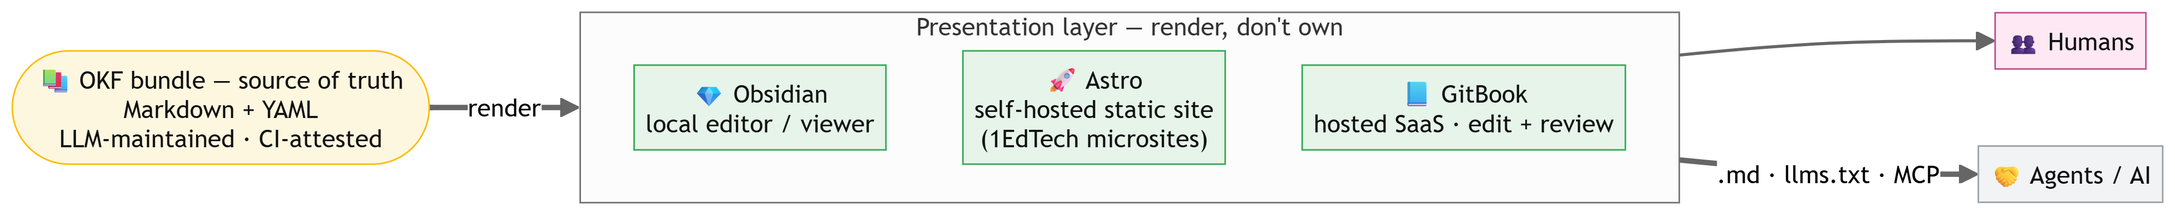
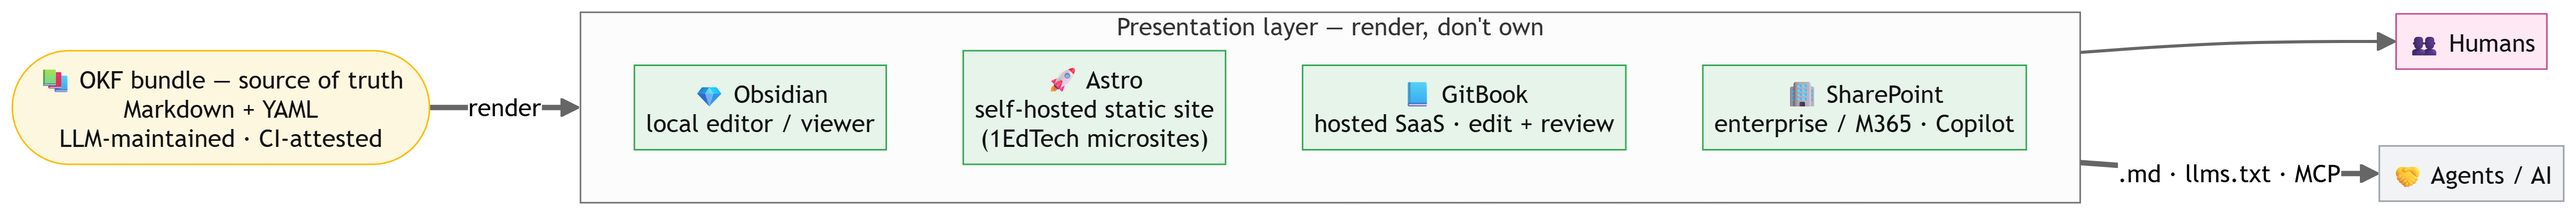
Overview: add setup + provider-independence sections; SharePoint in spectrum diagram
- summaries/overview.md — "Set it up yourself" (six practical steps) and
  "Provider independence — and local LLMs" (vendor-neutral artifact / harness /
  model; local open-weight models; privacy, longevity, mix-and-match)
- concepts/presentation-layer.md — SharePoint added to the spectrum diagram
  (local -> self-hosted -> SaaS -> enterprise/M365)
- assets/presentation-layer-spectrum.{png,svg} — re-rendered with four options
- log.md updated

diff --git a/summaries/overview.md b/summaries/overview.md
@@ -92,6 +92,60 @@ One bundle, a swappable [presentation layer](../concepts/presentation-layer.md)
   that turns an interoperable "Completed" event into a teaching decision
   ([One Data, One Meaning](one-data-one-meaning.md)).
 
+## Set it up yourself
+Two components enable any LLM-wiki (per [One Data, One Meaning](one-data-one-meaning.md)):
+a **Markdown editor** and an **agent harness + LLM**.
+
+1. **Tools** — [Obsidian](../entities/obsidian.md) (edit/view, with a graph view) +
+   an agent such as Claude Code with a capable model.
+2. **Bootstrap the schema** — make a folder, hand the agent Karpathy's
+   [idea file](../sources/source-karpathy-llm-wiki-gist.md), and ask it to write a
+   [`CLAUDE.md`](../CLAUDE.md) schema for *your* topic — it should first ask what the
+   wiki is about and what sources you'll feed it. (That is exactly how this wiki began.)
+3. **Ingest** — give the agent a source (a link or a file); it writes a source note,
+   updates the related [concept/entity pages](../concepts/three-operations.md),
+   cross-links them, and appends to `log.md`.
+4. **Query** — ask questions against the wiki, and file good answers back as new pages.
+5. **Lint** — periodically ask it to check for contradictions, orphans, stale claims,
+   and broken links.
+6. **Harden (optional)** — put it in **git** (the source of truth), adopt
+   [OKF](../concepts/open-knowledge-format.md) frontmatter + [trust tiers](../concepts/provenance-and-trust.md),
+   run conformance/[attestation](../concepts/attested-computation.md) checks in CI, and
+   publish through a [presentation layer](../concepts/presentation-layer.md)
+   (Obsidian / Astro / GitBook / SharePoint).
+
+Copy this repo's [`CLAUDE.md`](../CLAUDE.md) as a starting schema.
+
+## Provider independence — and local LLMs
+The bundle is just **Markdown + YAML in git** — no proprietary runtime, SDK, or
+account ([OKF is a "format, not a platform"](../concepts/open-knowledge-format.md);
+"if you can `cat` a file, you can read it"). That makes the whole pattern
+vendor-neutral on three axes:
+
+- **The artifact** — any LLM, agent, editor, or site generator can read and write the
+  bundle. Nothing about it is tied to one provider; it outlives whichever tool made it.
+- **The agent harness** — Claude Code is one option; Codex-style agents (via an
+  `AGENTS.md`), Open Code, Aider, and others work too. The [schema](../CLAUDE.md) is a
+  plain-text convention, not an API. Joshi's walkthrough and the
+  [One Data, One Meaning](one-data-one-meaning.md) talk both note the pattern runs on
+  "any agent" and "most common models."
+- **The model** — you can run ingest / compile / lint with **open-weight models**
+  (Llama, Qwen, Mistral, DeepSeek) locally via Ollama, LM Studio, or llama.cpp. The
+  format and workflow are identical; only *synthesis quality* scales with model
+  capability — compiling and cross-linking many pages in one pass is the demanding
+  step, so a stronger model helps there, while a smaller/local one can still handle
+  queries.
+
+Why it matters:
+- **Privacy & data residency** — run a local model over sensitive learner or
+  enterprise data so nothing leaves the premises (the governance concern behind
+  [One Data, One Meaning](one-data-one-meaning.md) and [SharePoint](../entities/sharepoint.md)).
+- **Longevity & no lock-in** — the knowledge survives any single vendor; the bundle is
+  still readable in a plain text editor years from now.
+- **Mix and match** — a capable model for ingestion, a cheap or local one for queries;
+  [provenance](../concepts/provenance-and-trust.md) even records *which* model/tool
+  generated each page (the `generated.by` actor), so you can track or gate by model.
+
 ## Lineage
 Vannevar Bush's 1945 [Memex](../concepts/memex.md) (associative trails, abandoned over
 bookkeeping) → Karpathy's [LLM Wiki](../sources/source-karpathy-llm-wiki-gist.md)

diff --git a/log.md b/log.md
@@ -101,3 +101,14 @@ correct via a new entry. Format defined in [CLAUDE.md](CLAUDE.md) §6.
 - action: ingested SharePoint as a presentation/storage/ingest option (analysis, not a fetched source)
 - pages: [entities/sharepoint, concepts/presentation-layer, index]
 - note: SharePoint in three roles (raw-source corpus via Graph, M365-native bundle store, Copilot query/presentation layer); OKF↔SharePoint mapping (content types, approval workflows, versioning, sensitivity labels); added as the 4th presentation-layer option (enterprise/M365). Marked generated/unverified with a "verify against Microsoft docs" caveat — no external source was fetched. WebFetch was unavailable this session.
+
+## 2026-10-30  ·  synthesize
+- action: updated the presentation-layer spectrum diagram to include SharePoint (now four options)
+- pages: [concepts/presentation-layer, assets/presentation-layer-spectrum.png, assets/presentation-layer-spectrum.svg]
+- note: added SharePoint node (enterprise/M365·Copilot); fixed the caption (local → self-hosted → SaaS → enterprise/M365). Local only.
+- action: added a "Set it up yourself" how-to section to the overview
+- pages: [summaries/overview]
+- note: six practical steps (tools → bootstrap CLAUDE.md → ingest → query → lint → harden with git/OKF/CI/presentation layer). Local only.
+- action: added a "Provider independence — and local LLMs" section to the overview
+- pages: [summaries/overview]
+- note: vendor-neutrality on three axes (artifact / harness / model); local open-weight models via Ollama/LM Studio/llama.cpp; privacy, longevity/no-lock-in, and mix-and-match with generated.by provenance. Local only.

diff --git a/concepts/presentation-layer.md b/concepts/presentation-layer.md
@@ -28,6 +28,7 @@ flowchart LR
         OB["💎 Obsidian<br/>local editor / viewer"]
         AS["🚀 Astro<br/>self-hosted static site<br/>(1EdTech microsites)"]
         GB["📘 GitBook<br/>hosted SaaS · edit + review"]
+        SP["🏢 SharePoint<br/>enterprise / M365 · Copilot"]
     end
 
     HUM["👥 Humans"]
@@ -41,13 +42,12 @@ flowchart LR
     classDef pl fill:#e6f4ea,stroke:#34a853,color:#111;
     classDef human fill:#fde8f3,stroke:#c2508f,color:#111;
     classDef agent fill:#f1f3f4,stroke:#9aa0a6,color:#111;
-    class KB bundle; class OB,AS,GB pl; class HUM human; class AG agent;
+    class KB bundle; class OB,AS,GB,SP pl; class HUM human; class AG agent;
 ```
 
 One bundle, a swappable presentation layer, one audience of humans *and* agents. The
-options trade control for convenience (local → self-hosted → SaaS, plus
-[SharePoint](../entities/sharepoint.md) as the enterprise/M365 variant); the diagram
-shows the main three, and the GitBook case is drawn out in detail below.
+options trade control for convenience — local → self-hosted → SaaS →
+enterprise/M365; the GitBook case is drawn out in detail below.
 
 ## The rule: render, don't own
 The compiled bundle stays authoritative — the [LLM maintainer](three-layer-architecture.md)
